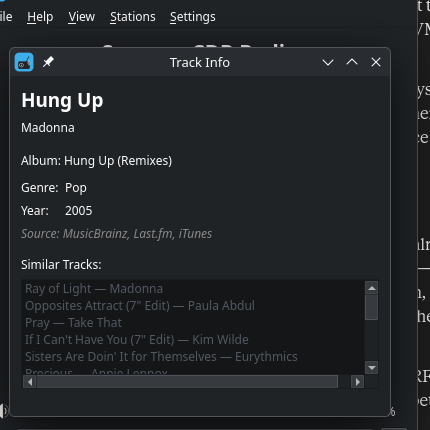
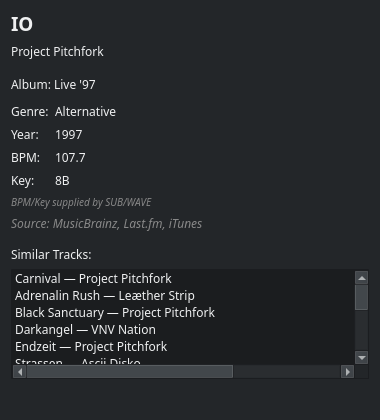
Show BPM/Key in the Track Info window, attributed to SUB/WAVE
MusicBrainz/Last.fm/iTunes never supply BPM or musical key - only a
SUB/WAVE station's own acoustic analysis does, so the dialog gets a
"BPM/Key supplied by SUB/WAVE" note rather than presenting them as
just another lookup field alongside genre/year.

diff --git a/radiotop_gui.py b/radiotop_gui.py
@@ -1245,11 +1245,19 @@ class TrackInfoDialog(QDialog):
         form = QFormLayout()
         self.genre_value = QLabel("-")
         self.year_value = QLabel("-")
-        for lbl in (self.genre_value, self.year_value):
+        self.bpm_value = QLabel("-")
+        self.key_value = QLabel("-")
+        for lbl in (self.genre_value, self.year_value, self.bpm_value, self.key_value):
             lbl.setWordWrap(True)
         form.addRow("Genre:", self.genre_value)
         form.addRow("Year:", self.year_value)
+        form.addRow("BPM:", self.bpm_value)
+        form.addRow("Key:", self.key_value)
         layout.addLayout(form)
+
+        self.subwave_note_label = QLabel("")
+        self.subwave_note_label.setStyleSheet("color: #888888; font-style: italic; font-size: 10px;")
+        layout.addWidget(self.subwave_note_label)
 
         self.status_label = QLabel("")
         self.status_label.setStyleSheet("color: #888888; font-style: italic;")
@@ -1277,6 +1285,9 @@ class TrackInfoDialog(QDialog):
         self.album_label.setText("Album: -")
         self.genre_value.setText("-")
         self.year_value.setText("-")
+        self.bpm_value.setText("-")
+        self.key_value.setText("-")
+        self.subwave_note_label.setText("")
         self.status_label.setText("")
         self.similar_list.clear()
         self._reset_width()
@@ -1287,6 +1298,9 @@ class TrackInfoDialog(QDialog):
         self.album_label.setText("Album: -")
         self.genre_value.setText("-")
         self.year_value.setText("-")
+        self.bpm_value.setText("-")
+        self.key_value.setText("-")
+        self.subwave_note_label.setText("")
         self.status_label.setText("")
         self.similar_list.clear()
         self._reset_width()
@@ -1297,9 +1311,21 @@ class TrackInfoDialog(QDialog):
         self.album_label.setText("Album: -")
         self.genre_value.setText("-")
         self.year_value.setText("-")
+        self.bpm_value.setText("-")
+        self.key_value.setText("-")
+        self.subwave_note_label.setText("")
         self.status_label.setText("Looking up track details...")
         self.similar_list.clear()
         self._reset_width()
+
+    def set_subwave_details(self, bpm, musical_key):
+        """BPM/key aren't available from MusicBrainz/Last.fm/iTunes - only a
+        SUB/WAVE station's own API supplies them (from its acoustic
+        analysis of the track), so the note makes that source explicit
+        rather than presenting them as just another lookup field."""
+        self.bpm_value.setText(str(bpm) if bpm else "-")
+        self.key_value.setText(str(musical_key) if musical_key else "-")
+        self.subwave_note_label.setText("BPM/Key supplied by SUB/WAVE" if (bpm or musical_key) else "")
 
     def set_similar_tracks_loading(self):
         self.similar_list.clear()
@@ -2222,11 +2248,13 @@ class MainWindow(QMainWindow):
             self.like_btn.setEnabled(True)
             liked = self._liked_key(artist, title) in self.liked_tracks
             self.like_btn.setText("★ Liked" if liked else "☆ Like")
+            self.track_info_dialog.set_subwave_details(now.get("bpm"), now.get("musicalKey"))
         else:
             self._current_subwave_track = None
             self.subwave_detail_label.setText("")
             self.like_btn.setEnabled(False)
             self.like_btn.setText("☆ Like")
+            self.track_info_dialog.set_subwave_details(None, None)
 
         state = payload.get("state") or {}
         upcoming = state.get("upcoming") or []

diff --git a/tests/test_track_info_dialog.py b/tests/test_track_info_dialog.py
@@ -7,13 +7,34 @@ def test_set_waiting_resets_labels(qapp):
         "found": True, "title": "T", "artist": "A", "album": "Al",
         "genre": "G", "year": "2020", "sources": ["MusicBrainz"],
     })
+    dlg.set_subwave_details(123, "7A")
     dlg.set_waiting()
     assert dlg.title_label.text() == "Waiting for stream metadata..."
     assert dlg.artist_label.text() == ""
     assert dlg.album_label.text() == "Album: -"
     assert dlg.genre_value.text() == "-"
     assert dlg.year_value.text() == "-"
+    assert dlg.bpm_value.text() == "-"
+    assert dlg.key_value.text() == "-"
+    assert dlg.subwave_note_label.text() == ""
     assert dlg.status_label.text() == ""
+
+
+def test_set_subwave_details_populates_bpm_and_key_with_note(qapp):
+    dlg = TrackInfoDialog()
+    dlg.set_subwave_details(123, "7A")
+    assert dlg.bpm_value.text() == "123"
+    assert dlg.key_value.text() == "7A"
+    assert "SUB/WAVE" in dlg.subwave_note_label.text()
+
+
+def test_set_subwave_details_clears_when_no_data(qapp):
+    dlg = TrackInfoDialog()
+    dlg.set_subwave_details(123, "7A")
+    dlg.set_subwave_details(None, None)
+    assert dlg.bpm_value.text() == "-"
+    assert dlg.key_value.text() == "-"
+    assert dlg.subwave_note_label.text() == ""
 
 
 def test_set_no_track(qapp):
